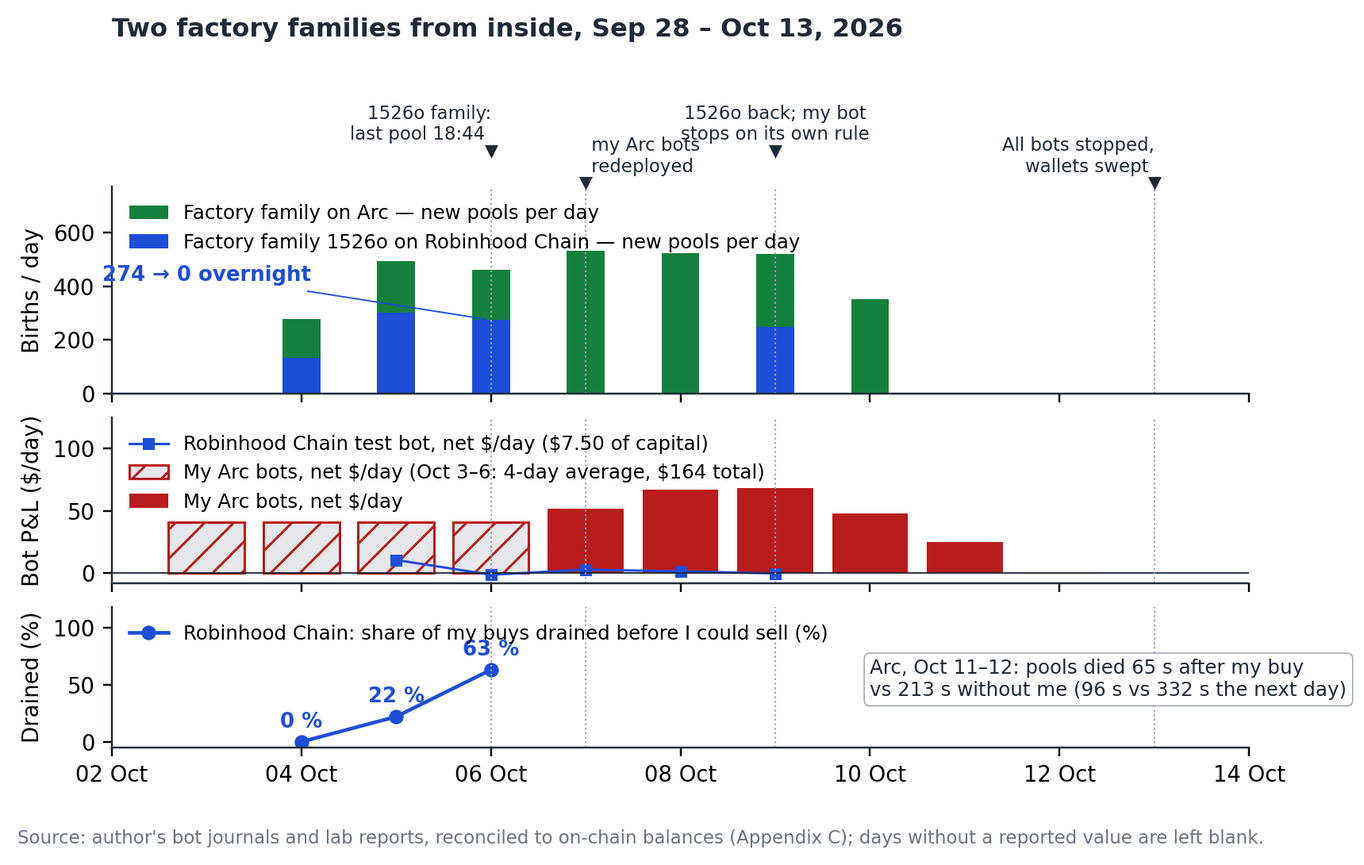
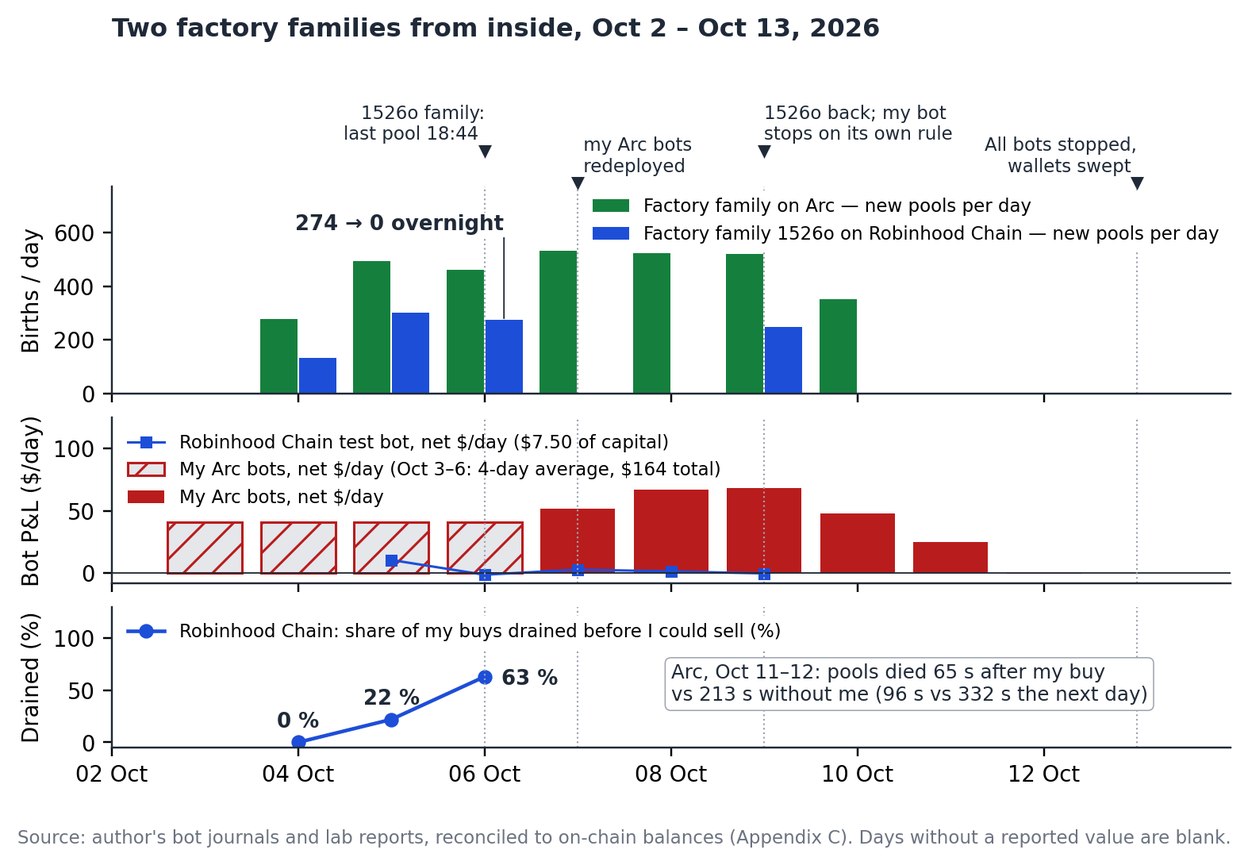
Figures redrawn: Fig. 1 without the launches line, Fig. 3 readable at print size, Fig. 5 without overlaps, D3 without the contradicted share lines; A1, C1 and D2 fixes

diff --git a/scripts/fig2.py b/scripts/fig2.py
@@ -1,41 +1,44 @@
 # F2 / Fig. C1 (annexe C) — une famille d'usines vue de l'intérieur : naissances/jour, P&L net des bots, part de mes achats vidés.
 # Data: the author's bot journals and lab reports, reconciled to on-chain balances (bots/reconciliation.csv). Run from the repository root.
-from datetime import date, timedelta
+from datetime import date, datetime, timedelta
 import matplotlib; matplotlib.use('Agg')
 import matplotlib.pyplot as plt, matplotlib.dates as mdates
 INK='#1f2937'; RED='#b91c1c'; BLUE='#1d4ed8'; GREEN='#15803d'; GREY='#9ca3af'; LIGHT='#e5e7eb'; MUTED='#6b7280'
 plt.rcParams.update({'font.family':'DejaVu Sans','font.size':9,'axes.edgecolor':INK,'axes.spines.top':False,'axes.spines.right':False,'legend.fontsize':8})
 D = lambda m,d: date(2026,m,d)
+T = lambda d: datetime(d.year, d.month, d.day)   # a date + timedelta(hours=…) stays a date: shift datetimes instead (6/11 fix: the two families now sit side by side, as intended)
 births_rh = {D(10,4):133, D(10,5):300, D(10,6):274, D(10,7):0, D(10,9):247}
 births_arc = {D(10,4):277, D(10,5):492, D(10,6):461, D(10,7):532, D(10,8):522, D(10,9):520, D(10,10):351}
 pnl_arc_avg = {D(10,3):41, D(10,4):41, D(10,5):41, D(10,6):41}
 pnl_arc = {D(10,7):51.8, D(10,8):67.2, D(10,9):68.6, D(10,10):47.8, D(10,11):25, D(10,12):-0.4}
 pnl_rh = {D(10,5):10.5, D(10,6):-1.4, D(10,7):2.8, D(10,8):1.3, D(10,9):-0.3}
 drained_rh = {D(10,4):0, D(10,5):22, D(10,6):63}
-events = [(D(10,6),'1526o family:\nlast pool 18:44 ',1,'right'),(D(10,7),' my Arc bots\n redeployed',0,'left'),(D(10,9),'1526o back; my bot\nstops on its own rule',1,'center'),(D(10,13),'All bots stopped,\nwallets swept ',0,'right')]
+events = [(D(10,6),'1526o family:\nlast pool 18:44 ',1,'right'),(D(10,7),' my Arc bots\n redeployed',0,'left'),(D(10,9),'1526o back; my bot\nstops on its own rule',1,'left'),(D(10,13),'All bots stopped,\nwallets swept ',0,'right')]
 x0, x1 = D(10,2), D(10,14)
 fig, axes = plt.subplots(3,1, figsize=(7.2,4.4), sharex=True, gridspec_kw={'height_ratios':[1.25,1,0.85], 'hspace':0.14})
 ax = axes[0]
-ax.bar([d-timedelta(hours=5) for d in births_arc], births_arc.values(), width=0.4, color=GREEN, label='Factory family on Arc — new pools per day')
-ax.bar([d+timedelta(hours=5) for d in births_rh], births_rh.values(), width=0.4, color=BLUE, label='Factory family 1526o on Robinhood Chain — new pools per day')
-ax.annotate('274 → 0 overnight', xy=(D(10,6)+timedelta(hours=5), 274), xytext=(D(10,3)+timedelta(hours=12), 420), textcoords='data', color=BLUE, fontsize=8.5, fontweight='bold', ha='center', arrowprops=dict(arrowstyle='-', color=BLUE, lw=0.6))
+ax.bar([T(d)-timedelta(hours=5) for d in births_arc], births_arc.values(), width=0.4, color=GREEN, label='Factory family on Arc — new pools per day')
+ax.bar([T(d)+timedelta(hours=5) for d in births_rh], births_rh.values(), width=0.4, color=BLUE, label='Factory family 1526o on Robinhood Chain — new pools per day')
+# label above the bars, right of the y-axis; a vertical leader drops into the gap above the Oct 6 Robinhood Chain bar (crosses no bar)
+ax.annotate('274 → 0 overnight', xy=(T(D(10,6))+timedelta(hours=5), 280), xytext=(T(D(10,6))+timedelta(hours=5), 590), textcoords='data', color=INK, fontsize=8.5, fontweight='bold', ha='right', va='bottom', bbox=dict(boxstyle='square,pad=0.1', fc='white', ec='none'), arrowprops=dict(arrowstyle='-', color=INK, lw=0.6, relpos=(1.0, 0.0), shrinkA=0, shrinkB=0))
 for d,txt,row,ha in events:
     y = 810 if row == 0 else 930
     ax.plot([d],[y-25], marker='v', color=INK, ms=4, clip_on=False); ax.text(d, y, txt, fontsize=7.5, color=INK, ha=ha, va='bottom')
-ax.set_ylabel('Births / day'); ax.set_ylim(0, 770); ax.legend(loc='upper left', frameon=False)
+ax.set_ylabel('Births / day'); ax.set_ylim(0, 770); ax.legend(loc='upper right', fontsize=7.5, borderaxespad=0.2, frameon=True, facecolor='white', edgecolor='none', framealpha=1)   # white ground: the event lines stop at the legend
 ax = axes[1]
 ax.bar(list(pnl_arc_avg), pnl_arc_avg.values(), width=0.8, color=LIGHT, edgecolor=RED, hatch='//', label='My Arc bots, net \\$/day (Oct 3–6: 4-day average, \\$164 total)')
 ax.bar(list(pnl_arc), pnl_arc.values(), width=0.8, color=RED, label='My Arc bots, net \\$/day')
 ax.plot(list(pnl_rh), pnl_rh.values(), color=BLUE, marker='s', ms=4, lw=1, label='Robinhood Chain test bot, net \\$/day (\\$7.50 of capital)')
-ax.axhline(0, color=INK, lw=0.6); ax.set_ylabel('Bot P&L (\\$/day)'); ax.set_ylim(-8, 125); ax.legend(loc='upper left', frameon=False)
+ax.axhline(0, color=INK, lw=0.6); ax.set_ylabel('Bot P&L (\\$/day)'); ax.set_ylim(-8, 125); ax.legend(loc='upper left', frameon=False, fontsize=7.5)
 ax = axes[2]
 ax.plot(list(drained_rh), drained_rh.values(), color=BLUE, marker='o', ms=5, lw=1.5, label='Robinhood Chain: share of my buys drained before I could sell (%)')
-for d,v in drained_rh.items(): ax.annotate(f'{v} %', (d,v), xytext=(0,6), textcoords='offset points', ha='center', fontsize=8.5, color=BLUE, fontweight='bold')
-ax.set_ylim(-5,118); ax.set_ylabel('Drained (%)'); ax.legend(loc='upper left', frameon=False)
-ax.text(D(10,10), 40, 'Arc, Oct 11–12: pools died 65 s after my buy\nvs 213 s without me (96 s vs 332 s the next day)', fontsize=8, color=INK, bbox=dict(boxstyle='round,pad=0.3', fc='white', ec=GREY, lw=0.5))
+for d,v in drained_rh.items():   # last label to the right of its point, clear of the legend
+    ax.annotate(f'{v} %', (d,v), xytext=(7,-1) if v == max(drained_rh.values()) else (0,6), textcoords='offset points', ha='left' if v == max(drained_rh.values()) else 'center', va='center' if v == max(drained_rh.values()) else 'baseline', fontsize=8.5, color=INK, fontweight='bold')
+ax.set_ylim(-5,130); ax.set_ylabel('Drained (%)'); ax.legend(loc='upper left', fontsize=7.5, frameon=True, facecolor='white', edgecolor='none', framealpha=1)
+ax.text(D(10,8), 40, 'Arc, Oct 11–12: pools died 65 s after my buy\nvs 213 s without me (96 s vs 332 s the next day)', fontsize=8, color=INK, bbox=dict(boxstyle='round,pad=0.3', fc='white', ec=GREY, lw=0.5))
 for a in axes:
     for d,_,_,_ in events: a.axvline(d, color=GREY, lw=0.7, ls=':')
-axes[2].set_xlim(x0, x1); axes[2].xaxis.set_major_locator(mdates.DayLocator(interval=2)); axes[2].xaxis.set_major_formatter(mdates.DateFormatter('%d %b'))
-axes[0].set_title('Two factory families from inside, Sep 28 – Oct 13, 2026', loc='left', fontsize=10.5, fontweight='bold', color=INK, pad=62)
-fig.text(0.01, 0.005, "Source: author's bot journals and lab reports, reconciled to on-chain balances (Appendix C); days without a reported value are left blank.", fontsize=7.5, color=MUTED)
-fig.subplots_adjust(left=0.085, right=0.99, top=0.86, bottom=0.13, hspace=0.14); fig.savefig('figures/figC1_family_lifecycle.png', dpi=220, bbox_inches='tight'); print('ok F2')
+axes[2].set_xlim(x0, x1); axes[2].set_xticks([D(10,k) for k in range(2, 13, 2)]); axes[2].xaxis.set_major_formatter(mdates.DateFormatter('%d %b'))   # no tick label on the right edge (it widened the PNG)
+axes[0].set_title('Two factory families from inside, Oct 2 – Oct 13, 2026', loc='left', fontsize=10.5, fontweight='bold', color=INK, pad=62)
+fig.text(0.01, 0.005, "Source: author's bot journals and lab reports, reconciled to on-chain balances (Appendix C). Days without a reported value are blank.", fontsize=7.5, color=MUTED)
+fig.subplots_adjust(left=0.085, right=0.975, top=0.86, bottom=0.13, hspace=0.14); fig.savefig('figures/figC1_family_lifecycle.png', dpi=220, bbox_inches='tight'); print('ok F2')

diff --git a/scripts/fig14.py b/scripts/fig14.py
@@ -1,27 +1,43 @@
-# F14 / Fig. 6 — le chemin daté vers la cible : événements publics (prints, unlocks, fin du rachat) et niveaux de la grille (p. 4).
+# F14 / Fig. 5 — le chemin daté vers la cible : événements publics (prints, unlocks, fin du rachat) et niveaux de la grille (p. 4).
 # Lancer depuis research-competition/ : .venv/bin/python figures/fig14.py
+# Événements = repères numérotés ①–④ posés au-dessus de l'axe des x (clé en haut du cadre) : aucun texte ne croise la ligne du stop.
 from datetime import date
 import matplotlib; matplotlib.use('Agg')
-import matplotlib.pyplot as plt, matplotlib.dates as mdates
+import matplotlib.pyplot as plt, matplotlib.dates as mdates, matplotlib.ticker as mt
 INK='#1f2937'; RED='#b91c1c'; GREY='#9ca3af'; LIGHT='#e5e7eb'; DARK='#4b5563'; MUTED='#6b7280'
 plt.rcParams.update({'font.family':'DejaVu Sans','font.size':8.5,'axes.edgecolor':INK,'axes.labelcolor':INK,'xtick.color':INK,'ytick.color':INK,'axes.spines.top':False,'axes.spines.right':False})
 D=lambda y,m,d: date(y,m,d)
-fig, ax = plt.subplots(figsize=(7.2, 1.46))
-x0, x1 = D(2026,10,15), D(2027,5,12); span=(x1-x0).days
-f=lambda d: (d-x0).days/span
+fig, ax = plt.subplots(figsize=(7.2, 2.3))
+x0, x1 = D(2026,10,15), D(2027,5,12)
+# niveaux de la grille et du plan (valeurs × 1000 = $ par jeton) — inchangés
 path=[(D(2026,10,21),4.7),(D(2026,11,23),4.1),(D(2026,12,1),3.5),(D(2027,2,12),2.8),(D(2027,4,28),2.2)]
 ax.plot([p[0] for p in path],[p[1] for p in path], color=INK, lw=1.5, ls='--', marker='o', ms=4.5, zorder=3)
-lab=[(D(2026,10,21),4.7,'today\n\\$0.0047',(-2,-9),'top','left'),(D(2026,11,23),4.1,'\\$0.0041 = last full week',(6,4),'bottom','left'),(D(2026,12,1),3.5,'1st third\n\\$0.0035',(0,-9),'top','center'),(D(2027,2,12),2.8,'2nd third \\$0.0028\n(3.2× on base revenue)',(0,9),'bottom','center'),(D(2027,4,28),2.2,'balance: target \\$0.0022\n(2.6× on base)',(0,9),'bottom','center')]
-for d,v,t,off,va,ha in lab: ax.annotate(t,(d,v),xytext=off,textcoords='offset points',ha=ha,va=va,fontsize=7.3,color=INK)
-ax.axhspan(5.5,6.0,xmin=f(D(2026,10,21)),xmax=f(D(2026,11,16)),color=LIGHT,zorder=1); ax.text(D(2026,10,17),6.2,'entry zone, last two thirds',fontsize=7,color=DARK,va='center')
-ax.axhline(10.0,color=RED,lw=1,ls=':'); ax.text(D(2026,10,17),10.1,'catastrophe stop: PUMP/SOL ×2 from entry ≈ \\$0.0094–0.0106 (SOL flat)',va='bottom',fontsize=7,color=RED)
-ev=[(D(2026,11,2),D(2026,11,12),'weekly prints\nNov 2, 9, 16, 23',7.7,'center'),(D(2026,12,1),D(2026,12,3),'Nov monthly\nprint (Dec 1)',7.7,'left'),(D(2027,1,12),D(2027,1,25),'unlocks: 6.875B on the 12th\nof each month (from Nov 12)',7.7,'center'),(D(2027,4,28),D(2027,4,20),'buyback programme\nends Apr 28',6.5,'center')]
-for d,xt,t,y,ha in ev:
-    ax.axvline(d,color=GREY,lw=0.7,ls=':'); ax.text(xt,y,t,ha=ha,va='bottom',fontsize=6.8,color=DARK)
-for d in [D(2026,11,9),D(2026,11,16),D(2026,11,23),D(2026,11,12),D(2026,12,12),D(2027,2,12),D(2027,3,12),D(2027,4,12)]: ax.axvline(d,color=GREY,lw=0.7,ls=':')
+lab=[(D(2026,10,21),4.7,'today: \\$0.0047',(-2,-8),'top','left'),
+     (D(2026,11,23),4.1,'\\$0.0041 = last full week',(6,4),'bottom','left'),
+     (D(2026,12,1),3.5,'1st third: \\$0.0035',(9,-7),'top','left'),
+     (D(2027,2,12),2.8,'2nd third \\$0.0028\n(3.2× on base revenue)',(0,9),'bottom','center'),
+     (D(2027,4,28),2.2,'balance: target \\$0.0022\n(2.6× on base)',(8,9),'bottom','right')]
+for d,v,t,off,va,ha in lab: ax.annotate(t,(d,v),xytext=off,textcoords='offset points',ha=ha,va=va,fontsize=7.3,color=INK,zorder=4)
+# zone d'entrée (les deux derniers tiers, sur rebond jusqu'au 16/11)
+ax.fill_between([D(2026,10,21),D(2026,11,16)],5.5,6.0,color=GREY,alpha=0.35,lw=0,zorder=1)
+ax.text(D(2026,10,21),6.15,'entry, last two thirds',fontsize=7,color=DARK,va='bottom',ha='left')
+# stop catastrophe : ligne rouge pointillée, étiquette au-dessus, rien ne la traverse
+ax.axhline(10.0,color=RED,lw=1,ls=':')
+ax.text(D(2026,10,17),10.15,'catastrophe stop: PUMP/SOL ×2 from entry ≈ \\$0.0094–0.0106 (SOL flat)',va='bottom',fontsize=7,color=INK)
+# événements publics : repères numérotés au-dessus de l'axe (prints en haut, offre en bas, pour ne jamais se chevaucher)
+EV={'①':[D(2026,11,2),D(2026,11,9),D(2026,11,16),D(2026,11,23)], '②':[D(2026,12,1)],
+    '③':[D(2026,11,12),D(2026,12,12),D(2027,1,12),D(2027,2,12),D(2027,3,12),D(2027,4,12)], '④':[D(2027,4,28)]}
+for k,ds in EV.items():
+    top = 1.35 if k in '①②' else 0.45
+    for d in ds:
+        ax.plot([d,d],[0,top],color=GREY,lw=0.8,zorder=2,solid_capstyle='butt')
+        ax.text(d,top+0.08,k,ha='center',va='bottom',fontsize=8,color=DARK)
+key=[(D(2026,10,17),9.0,'① weekly prints Nov 2, 9, 16, 23'),(D(2027,1,22),9.0,'② Nov monthly print (Dec 1)'),
+     (D(2026,10,17),7.95,'③ unlocks: 6.875B on the 12th of each month (from Nov 12)'),(D(2027,1,22),7.95,'④ buyback programme ends Apr 28')]
+for d,y,t in key: ax.text(d,y,t,ha='left',va='center',fontsize=6.8,color=DARK)
 ax.set_xlim(x0,x1); ax.set_ylim(0,11.6); ax.set_ylabel('PUMP price ($)')
-import matplotlib.ticker as mt; ax.yaxis.set_major_formatter(mt.FuncFormatter(lambda y,_: f'{y/1000:.4f}')); ax.set_yticks([2,4,6,8,10])
+ax.yaxis.set_major_formatter(mt.FuncFormatter(lambda y,_: f'{y/1000:.4f}')); ax.set_yticks([2,4,6,8,10])
 ax.xaxis.set_major_locator(mdates.MonthLocator()); ax.xaxis.set_major_formatter(mdates.DateFormatter('%b %Y'))
 ax.set_title("The path, dated: public events and the grid's levels", loc='left', fontsize=10.5, fontweight='bold', color=INK, pad=8)
-fig.text(0.01,0.01,"Levels: sensitivity grid (Investment proposal 1) and trade plan. Dates: DefiLlama weekly and monthly prints, Blockworks vesting schedule,\nbuyback policy (to Apr 28, 2027). The dashed line is a reading order, not a forecast of timing; any stop reading ends the path.",fontsize=6.8,color=MUTED,ha='left')
-fig.subplots_adjust(left=0.1,right=0.99,top=0.88,bottom=0.3); fig.savefig('figures/fig5_path.png',dpi=220,bbox_inches='tight'); print('ok fig5_path.png')
+fig.text(0.012,0.012,"Levels: sensitivity grid (Investment proposal 1) and trade plan. Dates: DefiLlama weekly and monthly prints, Blockworks vesting schedule,\nbuyback policy (to Apr 28, 2027). The dashed line is a reading order, not a forecast of timing; any stop reading ends the path.",fontsize=6.8,color=MUTED,ha='left',va='bottom')
+fig.subplots_adjust(left=0.11,right=0.985,top=0.875,bottom=0.215); fig.savefig('figures/fig5_path.png',dpi=220,bbox_inches='tight'); print('ok fig5_path.png')

diff --git a/scripts/fig10.py b/scripts/fig10.py
@@ -1,4 +1,5 @@
-# F10 — pump.fun jour par jour (16 jours) : médiane de la foule + lancements/h ; adresses acheteuses actives par jour.
+# F10 — pump.fun jour par jour (16 jours) : médiane de la foule ; adresses acheteuses actives par jour (collecteur + Allium).
+# (Lancements/h retirés le 6/11 : la série du collecteur sous-compte en 2e semaine. Sources dans la légende du papier.)
 # F11 — rétention à 7 jours des cohortes de nouveaux entrants (annexe B).
 # Lit data/pumpfun-16d/aggregate-pumpfun.json (sortie de data/pumpfun-16d/agreger.py). Lancer depuis research-competition/ :
 #   .venv/bin/python figures/fig10.py
@@ -11,33 +12,30 @@ INK='#1f2937'; RED='#b91c1c'; GREY='#9ca3af'; LIGHT='#e5e7eb'; DARK='#4b5563'; M
 plt.rcParams.update({'font.family':'DejaVu Sans','font.size':9.5,'axes.edgecolor':INK,'axes.labelcolor':INK,'xtick.color':INK,'ytick.color':INK,'axes.spines.top':False,'axes.spines.right':False,'legend.fontsize':8.5})
 P = A['parJour']; n = len(P)
 jours = [date.fromisoformat(o['jour']) for o in P]; lab = [d.strftime('%d') for d in jours]
-med = [100*o['med2060'] for o in P]; lan = [o['parHeure'] for o in P]
+med = [100*o['med2060'] for o in P]
 act = [A['adresses']['activesParJour'][o['jour']] for o in P]
 # second pipeline: Allium's count of the same days (crosscheck/results/allium/q1-overlap-daily.csv)
 AL = {r['day']: int(r['buyers']) for r in csv.DictReader(open('crosscheck/results/allium/q1-overlap-daily.csv')) if r['protocol'] == 'pumpfun' and r['day'][:4] == '2026'}
 al = [AL[o['jour']]/1000 for o in P]
-fig, (ax, bx) = plt.subplots(2, 1, figsize=(7.2, 1.74), sharex=True, gridspec_kw={'height_ratios': [1.2, 1], 'hspace': 0.12})
+fig, (ax, bx) = plt.subplots(2, 1, figsize=(7.2, 2.1), sharex=True, gridspec_kw={'height_ratios': [1.2, 1]})
 x = list(range(n))
-ax.bar(x, med, color=RED, width=0.72, label='median P&L, buyers entering 20–60 s after launch (%)')
-ax.axhline(0, color=INK, lw=0.8); ax.axhline(-2.5, color=GREY, lw=1.1, ls='--', label='round-trip curve fee ≈ −2.5 %')
-for i, v in enumerate(med): ax.text(i, 0.5, f'{v:.0f}', ha='center', va='bottom', fontsize=7, color=INK)
-ax.set_ylabel('Median\nP&L, %', fontsize=8.5, labelpad=4); ax.set_ylim(min(med)-4, 4.5)
-ax2 = ax.twinx(); ax2.spines['right'].set_visible(True)
-ax2.plot(x, lan, color=INK, lw=1.5, marker='o', ms=3.2, label='launches per hour (right)')
-ax2.set_ylabel('Launches / h', fontsize=8.5); ax2.set_ylim(0, max(lan)*1.3); ax2.set_yticks([0,500,1000,1500])
-h1,l1 = ax.get_legend_handles_labels(); h2,l2 = ax2.get_legend_handles_labels()
-ax.legend(h1+h2, l1+l2, loc='lower center', bbox_to_anchor=(0.5, 1.0), fontsize=7.8, frameon=False, ncol=3, columnspacing=0.9, handlelength=1.3, handletextpad=0.5)
+bars = ax.bar(x, med, color=RED, width=0.72)
+ax.axhline(0, color=INK, lw=0.8); fee = ax.axhline(-2.5, color=GREY, lw=1.1, ls='--')
+for i, v in enumerate(med): ax.text(i, 0.6, f'{v:.0f}'.replace('-', '−'), ha='center', va='bottom', fontsize=7, color=INK)
+ax.set_ylim(min(med)-3, 6); ax.set_yticks([-20, -10, 0])
+ax.legend([bars, fee], ['median P&L, buyers entering 20–60 s after launch', 'round-trip curve fee ≈ −2.5 %'], loc='lower left', bbox_to_anchor=(0.0, 1.0), fontsize=7.8, frameon=False, ncol=2, columnspacing=1.6, handlelength=1.3, handletextpad=0.5, borderaxespad=0.2, borderpad=0.1)
 ak = [a/1000 for a in act]
-bx.bar(x, ak, color=LIGHT, edgecolor=GREY, width=0.72, label='my collector')
-bx.plot(x, al, color=INK, lw=1.4, marker='o', ms=2.8, label='Allium (ref. 19)')
+bx.bar(x, ak, color=LIGHT, edgecolor=GREY, width=0.72)
+bx.plot(x, al, color=INK, lw=1.4, marker='o', ms=2.8)
 w1 = sum(al[1:8])/7; w2 = sum(al[8:15])/7            # Oct 6–12 et Oct 13–19, compte Allium
-top = max(max(ak), max(al))
-bx.text(-0.4, top+22, f'Line, Allium: {w1:.0f}k → {w2:.0f}k a day (Oct 6–12 → 13–19), −{100*(1-w2/w1):.0f} % w/w. Bars: my collector.', ha='left', fontsize=7.6, color=INK, fontweight='bold')
-bx.set_ylabel('Active\nbuyers, k', fontsize=8.5, labelpad=4); bx.set_xticks(x); bx.set_xticklabels(lab); bx.set_xlabel('October 2026 (UTC days)')
-bx.set_ylim(0, top*1.65)
-ax.set_title(f"{n} days, {A['foule2060']['joursNegatifs']} negative medians — and the crowd thins", loc='left', fontsize=10.5, fontweight='bold', color=INK, pad=24)
-fig.text(0.01, 0.005, f"Source: author's Solana collector, pump.fun/SOL, {A['fenetre']['debut']} → {A['fenetre']['fin']} ({A['fenetre']['heures']} h), {A['foule2060']['positions']:,} positions, non-graduated;\n{A['couverture']['minutesSansSource']} min uncovered; curve fees included, unsold = 0. Line: Allium's count of the same days; the collector matches it to Oct 14, then misses a growing share (Appendix A).", fontsize=7.2, color=MUTED, ha='left', va='bottom')
-fig.subplots_adjust(left=0.085, right=0.89, top=0.85, bottom=0.33, hspace=0.22); fig.savefig(F/'fig1_pumpfun_16_days.png', dpi=220, bbox_inches='tight'); plt.close(fig); print('ok fig1_pumpfun_16_days.png', round(w1), round(w2))
+bx.text(0.004, 0.83, f'Line, Allium: {w1:.0f}k → {w2:.0f}k a day (Oct 6–12 → 13–19), −{100*(1-w2/w1):.0f} % w/w. Bars: my collector.', transform=bx.transAxes, ha='left', va='baseline', fontsize=7.4, color=INK, fontweight='bold')
+bx.text(0.996, 0.83, 'Source: Allium (allium.so)', transform=bx.transAxes, ha='right', va='baseline', fontsize=6.3, color=MUTED)
+bx.set_ylim(0, 280); bx.set_yticks([0, 100, 200]); bx.set_xticks(x); bx.set_xticklabels(lab); bx.set_xlabel('October 2026 (UTC days)', fontsize=8.5, labelpad=2)
+# one-line y-labels on two short panels: same x, top label raised and bottom label lowered so they never meet
+ax.set_ylabel('Median P&L (%)', fontsize=8); bx.set_ylabel('Buyers (k/day)', fontsize=8)
+ax.yaxis.set_label_coords(-0.062, 0.62); bx.yaxis.set_label_coords(-0.062, 0.30)
+ax.set_title(f"{n} days, {A['foule2060']['joursNegatifs']} negative medians — and the crowd thins", loc='left', fontsize=10.5, fontweight='bold', color=INK, pad=17)
+fig.subplots_adjust(left=0.085, right=0.985, top=0.83, bottom=0.2, hspace=0.12); fig.savefig(F/'fig1_pumpfun_16_days.png', dpi=220, bbox_inches='tight'); plt.close(fig); print('ok fig1_pumpfun_16_days.png', round(w1), round(w2))
 
 # ---- F11 (annexe B) : rétention des cohortes de nouveaux entrants ----
 R = [r for r in A['adresses'].get('retentionCohortes', []) if r.get('r7') is not None and r['jour'] != P[0]['jour']]

diff --git a/scripts/figures.py b/scripts/figures.py
@@ -79,10 +79,10 @@ fig, ax = plt.subplots(figsize=(3.55,2.6))
 ax.plot(wk, [wf.get(w,0)/1e6 for w in wk], color=RED, lw=2, marker='o', ms=2.5, label='pump.fun (Solana)')
 ax.plot(wk, [wp.get(w,0)/1e6 for w in wk], color=BLUE, lw=1.8, marker='s', ms=2.5, label='Pons (Robinhood Chain)')
 ax.plot(wk, [wa.get(w,0)/1e6*10 for w in wk], color=GREEN, lw=1.4, marker='^', ms=2.5, ls='--', label='Argus World (Arc) ×10')
-ax.set_ylabel('Weekly fees ($M; fees, not revenue)', fontsize=7.5); ax.tick_params(labelsize=8); ax.set_ylim(0, 66)
-ax.annotate('Pons peak,\nweek of Aug 31', (date(2026,8,31), wp[date(2026,8,31)]/1e6), xytext=(-7,0), textcoords='offset points', ha='right', va='center', fontsize=7, color=BLUE)
-ax.annotate('pump.fun peak,\n4 weeks later', (date(2026,9,28), wf[date(2026,9,28)]/1e6), xytext=(0,7), textcoords='offset points', ha='center', fontsize=7, color=RED)
-wa_pk = max(wk, key=lambda w: wa.get(w,0)); ax.annotate(f'Argus peak ${wa[wa_pk]/1e6:.1f}M\n(plotted ×10)', (wa_pk, wa[wa_pk]/1e6*10), xytext=(6,-2), textcoords='offset points', ha='left', va='top', fontsize=6.5, color=GREEN)
+ax.set_ylabel('Weekly fees ($M)', fontsize=7.5); ax.tick_params(labelsize=8); ax.set_ylim(0, 66)
+ax.annotate('Pons peak,\nweek of Aug 31', (date(2026,8,31), wp[date(2026,8,31)]/1e6), xytext=(-7,0), textcoords='offset points', ha='right', va='center', fontsize=7, color=INK)
+ax.annotate('pump.fun peak,\n4 weeks later', (date(2026,9,28), wf[date(2026,9,28)]/1e6), xytext=(0,7), textcoords='offset points', ha='center', fontsize=7, color=INK)
+wa_pk = max(wk, key=lambda w: wa.get(w,0)); ax.annotate(f'Argus peak\n${wa[wa_pk]/1e6:.1f}M (×10)', (wa_pk, wa[wa_pk]/1e6*10), xytext=(9,-2), textcoords='offset points', ha='left', va='center', fontsize=6.5, color=INK, linespacing=1.05)  # between the pump.fun and Pons lines (6/11); text in ink, not series colour
 ax.xaxis.set_major_locator(mdates.MonthLocator()); ax.xaxis.set_major_formatter(mdates.DateFormatter('%b'))
 ax.legend(loc='upper center', bbox_to_anchor=(0.5,-0.18), fontsize=7, frameon=False, ncol=2)
 finish(fig, ax, 'Same clock: Pons, then Argus, then pump.fun', 'Source: DefiLlama dailyFees, weeks of Jun 22 – Oct 12, 2026 (week of\nOct 19 partial, excluded). Argus World scaled ×10 for visibility.', 'figD2_same_clock.png', tsize=9.5, ssize=6.8, bottom=0.1)
@@ -106,21 +106,12 @@ for name, vals, col in layers:
     ax.bar(wk, vals, bottom=bottom, width=5.8, color=col, edgecolor='white', linewidth=0.3, label=name)
     bottom = [b+v for b,v in zip(bottom, vals)]
 ax.set_ylabel('Weekly fees, $M')
-ax2 = ax.twinx(); ax2.spines['right'].set_visible(True)
-share = [100*wc.get(w,0)/1e6/t if t else 0 for w,t in zip(wk,bottom)]
-share_p = [100*wf.get(w,0)/1e6/(t - wc.get(w,0)/1e6 + wf.get(w,0)/1e6) if t else 0 for w,t in zip(wk,bottom)]
-ax2.plot(wk, share_p, color=DARK, lw=1.2, ls='--', label='share counting all pump.fun products (%)')
-ax2.plot(wk, share, color=INK, lw=2, marker='o', ms=3, label='pump.fun launchpad share of launchpad fees (%)')
-ax2.set_ylim(0,118); ax2.set_ylabel('pump.fun share (%)')
-ax2.annotate(f'{share[0]:.0f} %', (wk[0], share[0]), xytext=(4,4), textcoords='offset points', fontsize=9, fontweight='bold')
-imin = share.index(min(share)); ax2.annotate(f'{share[imin]:.0f} %', (wk[imin], share[imin]), xytext=(8,6), textcoords='offset points', fontsize=9, fontweight='bold')
-ax2.annotate(f'{share[-1]:.0f} %', (wk[-1], share[-1]), xytext=(-4,7), textcoords='offset points', fontsize=9, fontweight='bold', ha='right')
-ax.annotate(f'peak ${max(bottom):.0f}M/wk', (wk[bottom.index(max(bottom))], max(bottom)), xytext=(7,-2), textcoords='offset points', fontsize=8.5, color=INK, va='center')
+# (6/11) share lines and right axis removed: that share series is contradicted by Blockworks and Allium; the figure shows the size of the pie only.
+ax.annotate(f'peak ${max(bottom):.0f}M/wk', (wk[bottom.index(max(bottom))], max(bottom)), xytext=(12,-2), textcoords='offset points', fontsize=8.5, color=INK, va='center')
 
-ax.xaxis.set_major_formatter(mdates.DateFormatter('%d %b'))
-h1,l1 = ax.get_legend_handles_labels(); h2,l2 = ax2.get_legend_handles_labels()
-ax.legend(h1+h2, l1+l2, loc='upper center', bbox_to_anchor=(0.5,-0.17), fontsize=7.5, frameon=False, ncol=4)
-finish(fig, ax, 'Launchpad fees: −70 % from the peak week, −49 % since pump.fun\'s own', 'Source: DefiLlama dailyFees, 16 launchpads with >$0.3M fees/30d in October (all chains), pump.fun counted as its launchpad only (dashed: share with PumpSwap, Terminal and app); ISO weeks 23–42 of 2026. Universe fixed on October fees (earlier casualties absent). Share = pump.fun / total.', 'figD3_total_pie_share.png', pad=16)
+ax.xaxis.set_major_locator(mdates.MonthLocator()); ax.xaxis.set_major_formatter(mdates.DateFormatter('%b'))
+ax.legend(loc='upper center', bbox_to_anchor=(0.5,-0.13), fontsize=7.5, frameon=False, ncol=4)
+finish(fig, ax, 'Launchpad fees: −70 % from the peak week, −49 % since pump.fun\'s own', 'Source: DefiLlama dailyFees, 16 launchpads with >$0.3M fees/30d in October (all chains), pump.fun counted as its launchpad only;\nISO weeks 23–42 of 2026. Universe fixed on October fees (earlier casualties absent).', 'figD3_total_pie_share.png', pad=10)
 
 # ---------- F7 / Table 1 (version image pour GitHub et les slides ; dans le PDF la table est en HTML, voir vision/layout.py) ----------
 cols = ['Venue (chain)', 'Launches\nper hour', 'Second buyer\n≤ 60 s', 'Crowd median\nP&L', 'Operator pull or sell within\nseconds of an outside buy (× matched control)', 'Inorganic signature']

diff --git a/scripts/fig13.py b/scripts/fig13.py
@@ -1,27 +1,31 @@
 # F13 / Fig. 2 (corps, demi-largeur) — la réponse des opérateurs, mesurée : part de mes achats vidés avant ma vente
 # (famille 1526o, Robinhood Chain, 4-6 oct.) et durée de vie des pools après mon achat vs sans moi (famille Arc, 11-12 oct.).
 # Chiffres : journaux de bots + collecteur (voir 47 et annexe C). Lancer depuis research-competition/ : .venv/bin/python figures/fig13.py
+# Dessinée à la largeur imprimée (flottant de 3.16 in) : rien ne dépasse le cadre de 3.55 in.
 import matplotlib; matplotlib.use('Agg')
 import matplotlib.pyplot as plt
 INK='#1f2937'; RED='#b91c1c'; BLUE='#1d4ed8'; GREEN='#15803d'; GREY='#9ca3af'; LIGHT='#e5e7eb'; DARK='#4b5563'; MUTED='#6b7280'
 plt.rcParams.update({'font.family':'DejaVu Sans','font.size':8,'axes.edgecolor':INK,'axes.labelcolor':INK,'xtick.color':INK,'ytick.color':INK,'axes.spines.top':False,'axes.spines.right':False})
-fig, (ax, bx) = plt.subplots(1, 2, figsize=(3.55, 2.35), gridspec_kw={'width_ratios': [1.05, 1], 'wspace': 0.55})
+fig, (ax, bx) = plt.subplots(1, 2, figsize=(3.55, 2.35), gridspec_kw={'width_ratios': [1.12, 1]})
 # --- gauche : part vidée
-days = ['Oct 4', 'Oct 5', 'Oct 6']; drained = [0, 22, 63]; lab = ['0 of 134', '22 %\n(after 22:00)', '10 of 16']
+days = ['Oct 4', 'Oct 5', 'Oct 6']; drained = [0, 22, 63]; lab = ['0 of 134', '22 %', '10 of 16']
 ax.bar(range(3), drained, color=BLUE, width=0.6)
-for i, (v, l) in enumerate(zip(drained, lab)): ax.text(i, v+7, l, ha='center', va='bottom', fontsize=7.2, color=INK, fontweight='bold')
-ax.set_xticks(range(3)); ax.set_xticklabels(days, fontsize=7.5); ax.set_ylim(0, 95); ax.set_ylabel('My buys drained\nbefore I could sell (%)', fontsize=7.5)
-ax.set_title('Robinhood Chain family', fontsize=8, color=DARK, loc='left')
+for i, (v, l) in enumerate(zip(drained, lab)): ax.text(i, v+(17 if i == 1 else 5), l, ha='center', va='bottom', fontsize=7.2, color=INK, fontweight='bold')
+ax.text(1, 22+3, 'after\n22:00', ha='center', va='bottom', fontsize=6.5, color=INK, linespacing=1.0)  # Oct 5: only buys after 22:00 (narrow, clear of the Oct 6 bar)
+ax.set_xticks(range(3)); ax.set_xticklabels(days, fontsize=7.5); ax.set_xlim(-0.72, 2.6); ax.set_ylim(0, 95); ax.set_yticks([0, 20, 40, 60, 80])
+ax.tick_params(labelsize=7.5); ax.set_ylabel('My buys drained\nbefore I could sell (%)', fontsize=7.5, labelpad=3)
+ax.set_title('Robinhood Chain family', fontsize=8, color=DARK, loc='left', pad=4)
 # --- droite : durée de vie des pools
 x = [0, 1]; mine = [65, 96]; without = [213, 332]
 bx.bar([i-0.19 for i in x], mine, width=0.36, color=GREEN, label='after my buy')
-bx.bar([i+0.19 for i in x], without, width=0.36, color=LIGHT, edgecolor=GREY, label='no buy, same family, same day')
+bx.bar([i+0.19 for i in x], without, width=0.36, color=LIGHT, edgecolor=GREY, label='no buy, same\nfamily, same day')
 for i in x:
-    bx.text(i-0.19, mine[i]+8, f'{mine[i]} s', ha='center', fontsize=7.2, color=INK, fontweight='bold'); bx.text(i+0.19, without[i]+8, f'{without[i]} s', ha='center', fontsize=7.2, color=DARK)
-bx.set_xticks(x); bx.set_xticklabels(['Oct 11', 'Oct 12'], fontsize=7.5); bx.set_ylim(0, 500); bx.set_ylabel('Pool life (seconds)', fontsize=7.5)
-bx.set_title('Arc family', fontsize=8, color=DARK, loc='left')
-bx.legend(loc='upper left', fontsize=6.3, frameon=False, handlelength=1.2, borderaxespad=0.1, labelspacing=0.3)
-fig.suptitle('How the operators responded to my bots', x=0.01, ha='left', fontsize=9.5, fontweight='bold', color=INK)
-fig.text(0.01, 0.01, "Family = pools sharing one contract bytecode. Oct 5: n not logged. Source: my bot\njournals and collector, Oct 4–12, 2026; nothing changed on my side Oct 4–6 (Appendix C).", fontsize=6.3, color=MUTED, ha='left')
-fig.subplots_adjust(left=0.16, right=0.985, top=0.80, bottom=0.3)
+    bx.text(i-0.19, mine[i]+8, f'{mine[i]}', ha='center', fontsize=7.2, color=INK, fontweight='bold'); bx.text(i+0.19, without[i]+8, f'{without[i]}', ha='center', fontsize=7.2, color=DARK)
+bx.set_xticks(x); bx.set_xticklabels(['Oct 11', 'Oct 12'], fontsize=7.5); bx.set_xlim(-0.5, 1.5); bx.set_ylim(0, 560); bx.set_yticks([0, 100, 200, 300, 400, 500])
+bx.tick_params(labelsize=7.5); bx.set_ylabel('Pool life (seconds)', fontsize=7.5, labelpad=3)
+bx.set_title('Arc family', fontsize=8, color=DARK, loc='left', pad=4)
+bx.legend(loc='upper left', fontsize=6.5, frameon=False, handlelength=1.2, handletextpad=0.4, borderaxespad=0.15, labelspacing=0.35)
+fig.suptitle('Drained: 0 of 134 buys, then 10 of 16', x=0.03, y=0.985, ha='left', va='top', fontsize=10.5, fontweight='bold', color=INK)
+fig.text(0.03, 0.012, "Family = pools sharing one bytecode. Oct 5: n not logged.\nNothing changed on my side Oct 4–6. Source: bot journals, collector.", fontsize=6.5, color=MUTED, ha='left', va='bottom', linespacing=1.25)
+fig.subplots_adjust(left=0.175, right=0.97, top=0.82, bottom=0.235, wspace=0.49)
 fig.savefig('figures/fig2_operator_response.png', dpi=220, bbox_inches='tight'); print('ok fig2_operator_response.png')

diff --git a/scripts/fig12.py b/scripts/fig12.py
@@ -1,5 +1,6 @@
 # F12 — la chaîne alimentaire mesurée : P&L médian par main selon son nombre de positions (pump.fun, 16 jours).
 # Lit data/pumpfun-16d/food-chain-published.json ; lancer depuis research-competition/ : .venv/bin/python figures/fig12.py
+# Dessinée à la largeur imprimée (7.2 in) ; sources et définitions dans la légende du papier (plus de note en pied).
 import json, pathlib
 import matplotlib; matplotlib.use('Agg')
 import matplotlib.pyplot as plt
@@ -9,18 +10,19 @@ plt.rcParams.update({'font.family':'DejaVu Sans','font.size':9.5,'axes.edgecolor
 S = [s for s in A['segments'] if s['variant']=='nongrad']
 short = ['1 position', '2–5', '6–20', '21–100', '101–500', '501–2,000', '> 2,000']
 def ph(v): return f"{v:.0f} %" if v >= 2 else (f"{v:.1f} %" if v >= 0.1 else f"{v:.2f} %")
-NGS = sum(s['sol'] for s in S)
-lab = [f"{short[i]}\n{ph(s['pctHands'])} of wallets\n{100*s['sol']/NGS:.0f} % of SOL" for i, s in enumerate(S)]
+lab = [f"{short[i]}\n{ph(s['pctHands'])} of wallets" for i, s in enumerate(S)]
 med = [s['median'] for s in S]
-fig, ax = plt.subplots(figsize=(7.2, 1.5)); x = list(range(len(S)))
+fig, ax = plt.subplots(figsize=(7.2, 2.6)); x = list(range(len(S)))
 ax.bar(x, med, color=RED, width=0.62)
-ax.axhline(0, color=INK, lw=0.8); ax.axhline(-2.5, color=GREY, lw=1.1, ls='--'); ax.text(4.5, 1.0, 'dashed line: round-trip curve fee ≈ −2.5 %', ha='center', va='bottom', fontsize=7.3, color=DARK)
+ax.axhline(0, color=INK, lw=0.8); ax.axhline(-2.5, color=GREY, lw=1.1, ls='--')
+ax.text(4.5, 1.2, 'dashed line: round-trip curve fee ≈ −2.5 %', ha='center', va='bottom', fontsize=7.3, color=DARK)
 for i, v in enumerate(med):
-    if v < -25: ax.text(i, v/2, f"{v:.0f} %", ha='center', va='center', fontsize=9, color='white', fontweight='bold')
-    else: ax.text(i, v-1.2, f"{v:.0f} %", ha='center', va='top', fontsize=9, color=INK, fontweight='bold')
-ax.set_xticks(x); ax.set_xticklabels(lab, fontsize=7.8); ax.set_ylabel('Median P&L (%)'); ax.set_ylim(min(med)-6, 5)
-ax.set_xlabel('Addresses grouped by positions taken in 16 days (Oct 5–20, 2026); last three groups ≈ 6, 31 and 125+ a day', fontsize=8.5)
-ax.set_title('The food chain: one-off buyers lose 46 %, the heaviest hands 4 %', loc='left', fontsize=10.5, fontweight='bold', color=INK, pad=10)
-NG = sum(s['positions'] for s in S)
-fig.text(0.01, 0.01, f"Source: author's Solana collector, pump.fun/SOL, {NG:,} all-entry positions (non-graduated tokens) by {A['mains']:,} addresses, creator excluded (as in Table 1 and Fig. 3); bars = median P&L per position, unsold remainder = 0. % of SOL is relative to the SOL staked on non-graduated tokens; addresses with more than 100 positions place 62 % of it.", fontsize=7.5, color=MUTED, ha='left', wrap=True)
-fig.tight_layout(rect=(0,0.12,1,1)); fig.savefig(F/'fig3_food_chain.png', dpi=220, bbox_inches='tight'); plt.close(fig); print('ok fig3_food_chain.png')
+    t = f"{v:.0f} %".replace('-', '−')
+    if v < -25: ax.text(i, v/2, t, ha='center', va='center', fontsize=9, color='white', fontweight='bold')   # inside the bar, far below the fee line
+    else: ax.text(i, v-1.8, t, ha='center', va='top', fontsize=9, color=INK, fontweight='bold')              # under the bar end, below the fee line
+ax.set_xticks(x); ax.set_xticklabels(lab, fontsize=7.5, linespacing=1.15); ax.set_xlim(-0.5, len(S)-0.5)
+ax.set_ylabel('Median P&L (%)'); ax.set_ylim(min(med)-6, 8)
+ax.set_xlabel('Addresses grouped by positions taken in 16 days (Oct 5–20, 2026); last three groups ≈ 6, 31 and 125+ a day', fontsize=8.5, labelpad=4)
+ax.set_title('The food chain: one-off buyers lose 46 %, the heaviest hands 4 %', loc='left', fontsize=10.5, fontweight='bold', color=INK, pad=8)
+fig.subplots_adjust(left=0.09, right=0.985, top=0.89, bottom=0.255)
+fig.savefig(F/'fig3_food_chain.png', dpi=220, bbox_inches='tight'); plt.close(fig); print('ok fig3_food_chain.png')

diff --git a/scripts/figA1_allium.py b/scripts/figA1_allium.py
@@ -21,15 +21,18 @@ ax.plot(days[6:], [v / 1e3 for v in roll], color=INK, lw=2, label='Allium, 7-day
 cd = sorted(col)
 ax.plot(cd, [col[d] / 1e3 for d in cd], color=RED, lw=2, ls='--', label='my collector, Oct 5-20')
 ax.axhline(155, color=DARK, lw=0.8, ls=':')
-ax.text(D('2026-04-20'), 158, 'stop level in the paper: 155,000 a day for two weeks', fontsize=7, color=DARK, va='bottom')
+ax.text(D('2026-04-08'), 158, 'stop level in the paper: 7-day mean above 155,000 for two weeks', fontsize=7, color=DARK, va='bottom')
 peak = max(range(len(roll)), key=lambda i: roll[i])
 ax.annotate(f'7-day peak {roll[peak]/1e3:.0f}k', (days[6+peak], roll[peak]/1e3), xytext=(-70, 6), textcoords='offset points', fontsize=7.3, color=INK, arrowprops=dict(arrowstyle='-', color=MUTED, lw=0.6))
-ax.annotate(f'{roll[-1]/1e3:.0f}k on Nov 3', (days[-1], roll[-1]/1e3), xytext=(-28, -24), textcoords='offset points', fontsize=7.3, color=INK, arrowprops=dict(arrowstyle='-', color=MUTED, lw=0.6))
+# last full Monday-Sunday week (Oct 26 - Nov 1): the trailing 7-day mean on Nov 1 is exactly that week's mean (121,639)
+wk = D('2026-11-01'); wk_mean = sum(al[wk - dt.timedelta(days=k)] for k in range(7)) / 7
+ax.plot([wk], [wk_mean/1e3], marker='o', ms=3.2, color=INK, zorder=4)
+ax.annotate(f'{wk_mean/1e3:.0f}k, week of Oct 26', (wk, wk_mean/1e3), xytext=(D('2026-10-29'), 33), textcoords='data', ha='right', va='bottom', fontsize=7.3, color=INK, arrowprops=dict(arrowstyle='-', color=INK, lw=0.6, relpos=(1.0, 1.0), shrinkA=0, shrinkB=2))
 ax.set_ylabel('buyers per day (thousands)'); ax.set_ylim(0, 240); ax.grid(axis='y', color=LIGHT, lw=0.6); ax.set_axisbelow(True)
 ax.xaxis.set_major_locator(mdates.MonthLocator()); ax.xaxis.set_major_formatter(mdates.DateFormatter('%b'))
-ax.legend(loc='upper left', bbox_to_anchor=(0.0, 0.93), frameon=False, fontsize=7.3, ncol=3)
-ax.set_title('Active buyers on the pump.fun curve: the October crowd, nine months wide', loc='left', fontsize=10.5, fontweight='bold', color=INK, pad=8)
+ax.legend(loc='lower left', bbox_to_anchor=(0.01, 0.015), frameon=False, fontsize=7.3, ncol=3, columnspacing=1.2, handlelength=1.8, borderaxespad=0)  # under the data: no daily value falls below 60k
+ax.set_title('Buyers peaked the week of Sep 28, then fell four weeks in a row', loc='left', fontsize=10.5, fontweight='bold', color=INK, pad=8)
 fig.text(0.01, 0.01, "Source: Allium (allium.so), solana.dex.trades, protocol 'pumpfun'; a buyer is the signer of a swap that sells SOL. Query q2 in crosscheck/queries/allium/.\n"
          "Collector: docs/pumpfun/03 §10. The two agree within 3-11 % to Oct 14, then the collector loses coverage (crosscheck/results/allium/README.md).", fontsize=6.6, color=MUTED, ha='left')
-fig.subplots_adjust(left=0.08, right=0.99, top=0.86, bottom=0.27)
+fig.subplots_adjust(left=0.08, right=0.975, top=0.86, bottom=0.27)
 fig.savefig('figures/figA1_allium_nine_months.png', dpi=220, bbox_inches='tight'); print('ok figA1_allium_nine_months.png')
